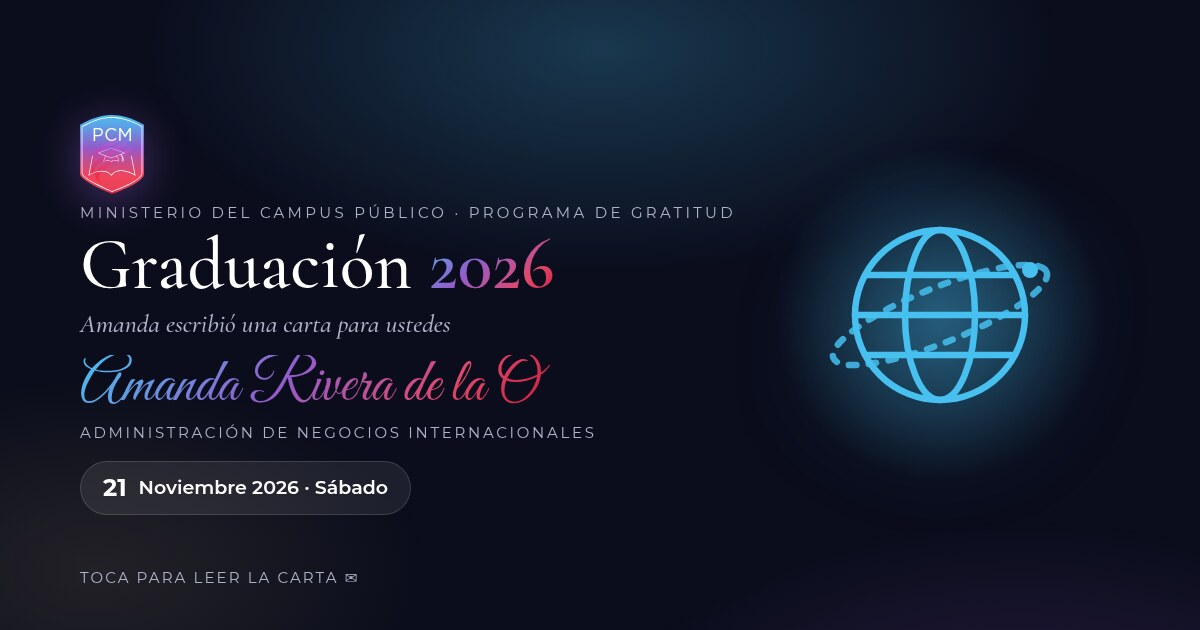
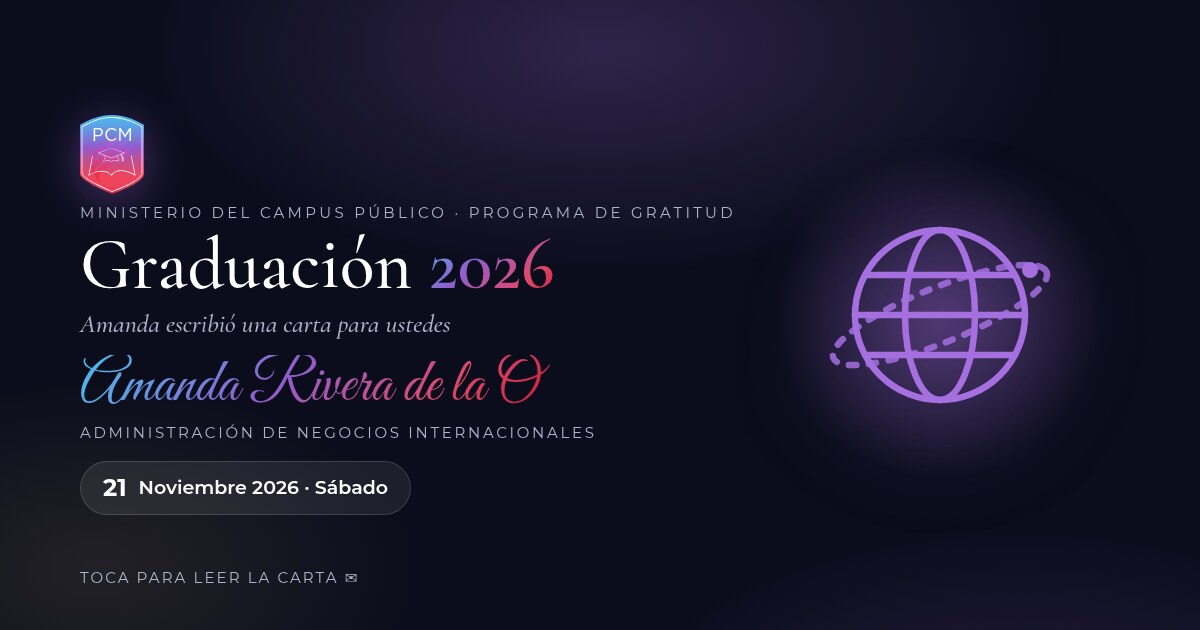
first commit

Changed region(s): [[0.6783, 0.3317, 0.8942, 0.6635]]

diff --git a/style.css b/style.css
@@ -22,7 +22,7 @@
    La carta se escribe sola bajo una luz cálida; al terminar cae el
    sello y la tarjeta gira en 3D para mostrar la invitación.
    Cada graduada tiene su tema (body[data-tema]) según su carrera:
-     mundo   → Negocios Internacionales: globo, avión de papel, azul/dorado
+     mundo   → Negocios Internacionales: globo, avión de papel, morado/rosa (del logo PCM)
      sonrisa  → Odontología: diente, destellos, rosa/menta
      servicio → Maestría en Administración Pública: edificio con columnas,
                 silueta de ciudad con ventanas que se encienden, verde/dorado
@@ -31,7 +31,7 @@
 
 /* ---------- Tema: acento por carrera ---------- */
 :root { --acc: var(--c2); --acc-ink: #6b3fa0; --acc-2: var(--gold-2); --acc-rgb: 146, 92, 204; }
-body[data-tema="mundo"]   { --acc: #47c0f0; --acc-ink: #1d7fb3; --acc-2: #e3b84f; --acc-rgb: 71, 192, 240; }
+body[data-tema="mundo"]   { --acc: #a56fe0; --acc-ink: #6b3fa0; --acc-2: #e0486d; --acc-rgb: 165, 111, 224; }   /* morado + rosa del logo */
 body[data-tema="sonrisa"] { --acc: #e0486d; --acc-ink: #c2335a; --acc-2: #8ee8d2; --acc-rgb: 224, 72, 109; }
 body[data-tema="servicio"] { --acc: #3ec98f; --acc-ink: #1f7a55; --acc-2: #e3b84f; --acc-rgb: 62, 201, 143; }
 body[data-tema="logro"]    { --acc: #e3b84f; --acc-ink: #a87f22; --acc-2: #925ccc; --acc-rgb: 227, 184, 79; }

diff --git a/tools/og.html b/tools/og.html
@@ -55,10 +55,10 @@
     .art .ring { position: absolute; width: 340px; height: 340px; border-radius: 50%; background: radial-gradient(circle, rgba(var(--acc-rgb), .35), transparent 70%); }
     .art .ico { width: 250px; color: var(--acc); filter: drop-shadow(0 20px 50px rgba(var(--acc-rgb), .55)); }
     .art .ico.two { display: grid; grid-template-columns: 1fr 1fr; gap: 10px; width: 300px; }
-    .art .ico.two span:first-child { color: #47c0f0; }
+    .art .ico.two span:first-child { color: #a56fe0; }
     .art .ico.two span:last-child { color: #e0486d; }
     .art .ico.many { display: grid; grid-template-columns: 1fr 1fr; gap: 14px; width: 300px; }
-    .art .ico.many span[data-tema="mundo"] { color: #47c0f0; }
+    .art .ico.many span[data-tema="mundo"] { color: #a56fe0; }
     .art .ico.many span[data-tema="sonrisa"] { color: #e0486d; }
     .art .ico.many span[data-tema="servicio"] { color: #3ec98f; }
     .art .ico.many span[data-tema="logro"] { color: #e3b84f; }

diff --git a/app.js b/app.js
@@ -136,7 +136,7 @@ Con amor,`;
     const sig = document.createElement('span'); sig.className = g ? 'sig' : 'sig sig-many'; sig.textContent = firma;
     text.after(sig);
     stamp.classList.add('on'); vibrate([20, 40, 30]);
-    open.hidden = false;
+    if (!card.classList.contains('flip')) open.hidden = false;
     Confetti.rain(30);
   }
   async function type() {

diff --git a/README.md b/README.md
@@ -19,7 +19,7 @@ con fecha, hora, lugar y versículo. No hay botón "Saltar": la carta se escribe
 
 | Graduado/a | Carrera | Tema | Acento | Versículo |
 |---|---|---|---|---|
-| Amanda Rivera de la O | Administración de Negocios Internacionales | `mundo`: globo con órbita, avión de papel que cruza la pantalla, marca de agua y sello con el globo | azul / dorado | Proverbios 16:3 |
+| Amanda Rivera de la O | Administración de Negocios Internacionales | `mundo`: globo con órbita, avión de papel que cruza la pantalla, marca de agua y sello con el globo | morado / rosa | Proverbios 16:3 |
 | Ana Elizabeth Pérez Chanona | Odontología | `sonrisa`: diente con brillo, destellos que titilan, marca de agua y sello con el diente | rosa / menta | Salmo 126:2-3 |
 | José Antonio Barrera Mendoza | *(sin confirmar: no se muestra)* | `logro`: birrete, destellos, marca de agua y sello con el birrete | dorado / morado | Jeremías 29:11 |
 | Caleb Josué Barrios González | *(sin confirmar: no se muestra)* | `logro` | dorado / morado | Jeremías 29:11 |
